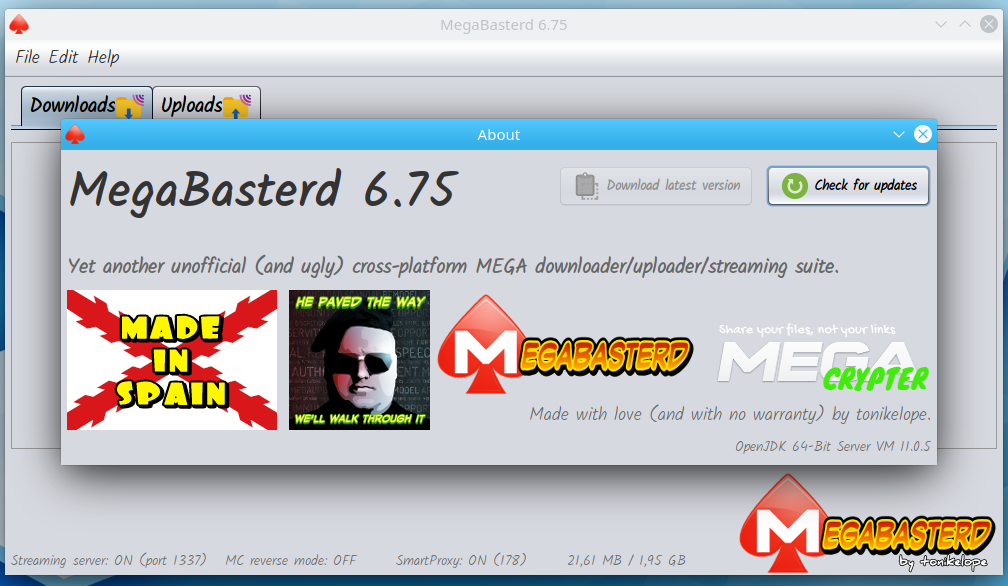
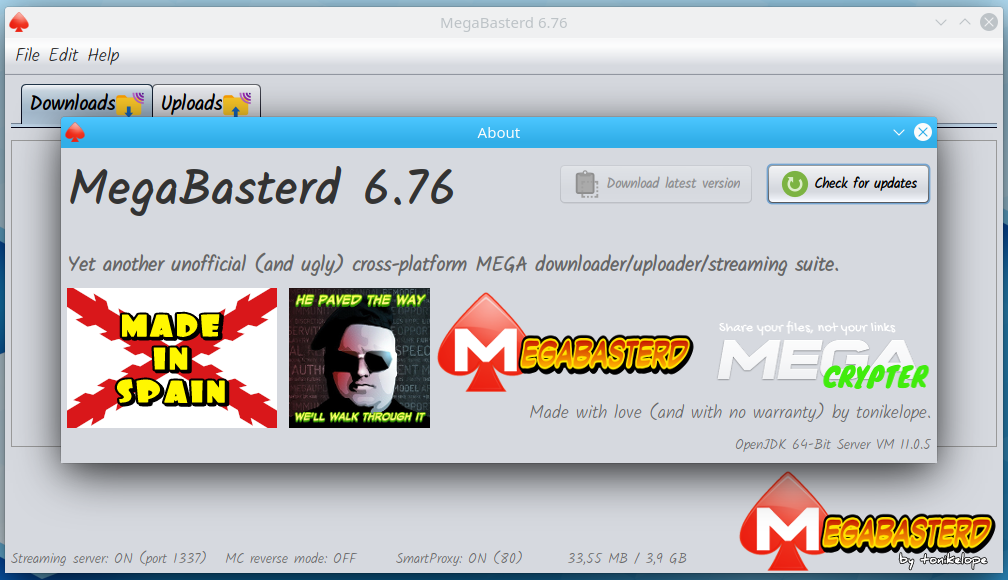
6.76
-Optional CUSTOM SMART PROXY LIST

-Smart Proxy progress watchdog timeout -> 60 secs

diff --git a/src/main/java/com/tonikelope/megabasterd/SettingsDialog.java b/src/main/java/com/tonikelope/megabasterd/SettingsDialog.java
@@ -578,6 +578,10 @@ public class SettingsDialog extends javax.swing.JDialog {
             this.language_combo.setSelectedItem(LabelTranslatorSingleton.getInstance().translate("Spanish"));
         }
 
+        String custom_proxy_list = DBTools.selectSettingValue("custom_proxy_list");
+
+        custom_proxy_textarea.setText(custom_proxy_list);
+
         _remember_master_pass = true;
 
         _deleted_mega_accounts = new HashSet();
@@ -634,6 +638,9 @@ public class SettingsDialog extends javax.swing.JDialog {
         jSeparator9 = new javax.swing.JSeparator();
         jSeparator10 = new javax.swing.JSeparator();
         jSeparator11 = new javax.swing.JSeparator();
+        jScrollPane1 = new javax.swing.JScrollPane();
+        custom_proxy_textarea = new javax.swing.JTextArea();
+        custom_proxy_list_label = new javax.swing.JLabel();
         uploads_scrollpane = new javax.swing.JScrollPane();
         uploads_panel = new javax.swing.JPanel();
         default_slots_up_label = new javax.swing.JLabel();
@@ -825,6 +832,16 @@ public class SettingsDialog extends javax.swing.JDialog {
         rec_smart_proxy_label.setFont(new java.awt.Font("Dialog", 2, 14)); // NOI18N
         rec_smart_proxy_label.setText("Note: enable it in order to mitigate bandwidth limit. (Multi slot required).");
 
+        custom_proxy_textarea.setColumns(20);
+        custom_proxy_textarea.setFont(new java.awt.Font("Dialog", 0, 18)); // NOI18N
+        custom_proxy_textarea.setRows(5);
+        custom_proxy_textarea.setDoubleBuffered(true);
+        jScrollPane1.setViewportView(custom_proxy_textarea);
+        custom_proxy_textarea.addMouseListener(new ContextMenuMouseListener());
+
+        custom_proxy_list_label.setFont(new java.awt.Font("Dialog", 0, 12)); // NOI18N
+        custom_proxy_list_label.setText("Use this proxy list (instead of the one included in MegaBasterd) Format is PROXY:PORT");
+
         javax.swing.GroupLayout downloads_panelLayout = new javax.swing.GroupLayout(downloads_panel);
         downloads_panel.setLayout(downloads_panelLayout);
         downloads_panelLayout.setHorizontalGroup(
@@ -846,30 +863,38 @@ public class SettingsDialog extends javax.swing.JDialog {
                     .addGroup(javax.swing.GroupLayout.Alignment.TRAILING, downloads_panelLayout.createSequentialGroup()
                         .addGroup(downloads_panelLayout.createParallelGroup(javax.swing.GroupLayout.Alignment.TRAILING)
                             .addComponent(jSeparator10, javax.swing.GroupLayout.Alignment.LEADING, javax.swing.GroupLayout.DEFAULT_SIZE, 1683, Short.MAX_VALUE)
-                            .addComponent(smart_proxy_checkbox, javax.swing.GroupLayout.Alignment.LEADING)
                             .addGroup(javax.swing.GroupLayout.Alignment.LEADING, downloads_panelLayout.createSequentialGroup()
-                                .addComponent(max_downloads_label)
-                                .addPreferredGap(javax.swing.LayoutStyle.ComponentPlacement.RELATED)
-                                .addComponent(max_downloads_spinner, javax.swing.GroupLayout.PREFERRED_SIZE, javax.swing.GroupLayout.DEFAULT_SIZE, javax.swing.GroupLayout.PREFERRED_SIZE))
-                            .addComponent(multi_slot_down_checkbox, javax.swing.GroupLayout.Alignment.LEADING)
-                            .addComponent(limit_download_speed_checkbox, javax.swing.GroupLayout.Alignment.LEADING)
-                            .addComponent(rec_smart_proxy_label, javax.swing.GroupLayout.Alignment.LEADING)
-                            .addGroup(javax.swing.GroupLayout.Alignment.LEADING, downloads_panelLayout.createSequentialGroup()
-                                .addGap(21, 21, 21)
-                                .addGroup(downloads_panelLayout.createParallelGroup(javax.swing.GroupLayout.Alignment.LEADING)
-                                    .addComponent(rec_download_slots_label)
-                                    .addGroup(downloads_panelLayout.createSequentialGroup()
-                                        .addComponent(default_slots_down_label)
+                                .addGroup(downloads_panelLayout.createParallelGroup(javax.swing.GroupLayout.Alignment.TRAILING)
+                                    .addComponent(smart_proxy_checkbox, javax.swing.GroupLayout.Alignment.LEADING)
+                                    .addGroup(javax.swing.GroupLayout.Alignment.LEADING, downloads_panelLayout.createSequentialGroup()
+                                        .addComponent(max_downloads_label)
                                         .addPreferredGap(javax.swing.LayoutStyle.ComponentPlacement.RELATED)
-                                        .addComponent(default_slots_down_spinner, javax.swing.GroupLayout.PREFERRED_SIZE, javax.swing.GroupLayout.DEFAULT_SIZE, javax.swing.GroupLayout.PREFERRED_SIZE))
-                                    .addGroup(downloads_panelLayout.createSequentialGroup()
-                                        .addComponent(max_down_speed_label)
-                                        .addPreferredGap(javax.swing.LayoutStyle.ComponentPlacement.RELATED)
-                                        .addComponent(max_down_speed_spinner, javax.swing.GroupLayout.PREFERRED_SIZE, javax.swing.GroupLayout.DEFAULT_SIZE, javax.swing.GroupLayout.PREFERRED_SIZE))
-                                    .addGroup(downloads_panelLayout.createSequentialGroup()
-                                        .addComponent(use_mega_label)
-                                        .addPreferredGap(javax.swing.LayoutStyle.ComponentPlacement.RELATED)
-                                        .addComponent(use_mega_account_down_combobox, javax.swing.GroupLayout.PREFERRED_SIZE, 700, javax.swing.GroupLayout.PREFERRED_SIZE)))))
+                                        .addComponent(max_downloads_spinner, javax.swing.GroupLayout.PREFERRED_SIZE, javax.swing.GroupLayout.DEFAULT_SIZE, javax.swing.GroupLayout.PREFERRED_SIZE))
+                                    .addComponent(multi_slot_down_checkbox, javax.swing.GroupLayout.Alignment.LEADING)
+                                    .addComponent(limit_download_speed_checkbox, javax.swing.GroupLayout.Alignment.LEADING)
+                                    .addGroup(javax.swing.GroupLayout.Alignment.LEADING, downloads_panelLayout.createSequentialGroup()
+                                        .addGap(21, 21, 21)
+                                        .addGroup(downloads_panelLayout.createParallelGroup(javax.swing.GroupLayout.Alignment.LEADING)
+                                            .addComponent(rec_download_slots_label)
+                                            .addGroup(downloads_panelLayout.createSequentialGroup()
+                                                .addComponent(default_slots_down_label)
+                                                .addPreferredGap(javax.swing.LayoutStyle.ComponentPlacement.RELATED)
+                                                .addComponent(default_slots_down_spinner, javax.swing.GroupLayout.PREFERRED_SIZE, javax.swing.GroupLayout.DEFAULT_SIZE, javax.swing.GroupLayout.PREFERRED_SIZE))
+                                            .addGroup(downloads_panelLayout.createSequentialGroup()
+                                                .addComponent(max_down_speed_label)
+                                                .addPreferredGap(javax.swing.LayoutStyle.ComponentPlacement.RELATED)
+                                                .addComponent(max_down_speed_spinner, javax.swing.GroupLayout.PREFERRED_SIZE, javax.swing.GroupLayout.DEFAULT_SIZE, javax.swing.GroupLayout.PREFERRED_SIZE))
+                                            .addGroup(downloads_panelLayout.createSequentialGroup()
+                                                .addComponent(use_mega_label)
+                                                .addPreferredGap(javax.swing.LayoutStyle.ComponentPlacement.RELATED)
+                                                .addComponent(use_mega_account_down_combobox, javax.swing.GroupLayout.PREFERRED_SIZE, 700, javax.swing.GroupLayout.PREFERRED_SIZE))))
+                                    .addGroup(javax.swing.GroupLayout.Alignment.LEADING, downloads_panelLayout.createSequentialGroup()
+                                        .addGap(26, 26, 26)
+                                        .addGroup(downloads_panelLayout.createParallelGroup(javax.swing.GroupLayout.Alignment.LEADING, false)
+                                            .addComponent(rec_smart_proxy_label, javax.swing.GroupLayout.DEFAULT_SIZE, javax.swing.GroupLayout.DEFAULT_SIZE, Short.MAX_VALUE)
+                                            .addComponent(custom_proxy_list_label, javax.swing.GroupLayout.DEFAULT_SIZE, javax.swing.GroupLayout.DEFAULT_SIZE, Short.MAX_VALUE)
+                                            .addComponent(jScrollPane1))))
+                                .addGap(0, 0, Short.MAX_VALUE)))
                         .addGap(12, 12, 12))
                     .addGroup(downloads_panelLayout.createSequentialGroup()
                         .addGroup(downloads_panelLayout.createParallelGroup(javax.swing.GroupLayout.Alignment.LEADING)
@@ -952,6 +977,10 @@ public class SettingsDialog extends javax.swing.JDialog {
                 .addComponent(smart_proxy_checkbox)
                 .addPreferredGap(javax.swing.LayoutStyle.ComponentPlacement.RELATED)
                 .addComponent(rec_smart_proxy_label)
+                .addPreferredGap(javax.swing.LayoutStyle.ComponentPlacement.UNRELATED)
+                .addComponent(custom_proxy_list_label)
+                .addPreferredGap(javax.swing.LayoutStyle.ComponentPlacement.RELATED)
+                .addComponent(jScrollPane1, javax.swing.GroupLayout.PREFERRED_SIZE, 186, javax.swing.GroupLayout.PREFERRED_SIZE)
                 .addContainerGap())
         );
 
@@ -1440,11 +1469,6 @@ public class SettingsDialog extends javax.swing.JDialog {
 
         start_frozen_checkbox.setFont(new java.awt.Font("Dialog", 1, 18)); // NOI18N
         start_frozen_checkbox.setText("Freeze transferences before start");
-        start_frozen_checkbox.addChangeListener(new javax.swing.event.ChangeListener() {
-            public void stateChanged(javax.swing.event.ChangeEvent evt) {
-                start_frozen_checkboxStateChanged(evt);
-            }
-        });
 
         javax.swing.GroupLayout advanced_panelLayout = new javax.swing.GroupLayout(advanced_panel);
         advanced_panel.setLayout(advanced_panelLayout);
@@ -1607,6 +1631,7 @@ public class SettingsDialog extends javax.swing.JDialog {
             settings.put("start_frozen", start_frozen_checkbox.isSelected() ? "yes" : "no");
             settings.put("use_custom_chunks_dir", custom_chunks_dir_checkbox.isSelected() ? "yes" : "no");
             settings.put("custom_chunks_dir", _custom_chunks_dir);
+            settings.put("custom_proxy_list", custom_proxy_textarea.getText());
 
             String old_font = DBTools.selectSettingValue("font");
 
@@ -2659,10 +2684,14 @@ public class SettingsDialog extends javax.swing.JDialog {
             rec_smart_proxy_label.setEnabled(true);
             multi_slot_down_checkbox.setSelected(true);
             use_proxy_checkbox.setSelected(false);
+            custom_proxy_list_label.setEnabled(true);
+            custom_proxy_textarea.setEnabled(true);
 
         } else {
 
             rec_smart_proxy_label.setEnabled(false);
+            custom_proxy_list_label.setEnabled(false);
+            custom_proxy_textarea.setEnabled(false);
         }
     }//GEN-LAST:event_smart_proxy_checkboxStateChanged
 
@@ -2746,10 +2775,6 @@ public class SettingsDialog extends javax.swing.JDialog {
         }
     }//GEN-LAST:event_custom_chunks_dir_buttonActionPerformed
 
-    private void start_frozen_checkboxStateChanged(javax.swing.event.ChangeEvent evt) {//GEN-FIRST:event_start_frozen_checkboxStateChanged
-        // TODO add your handling code here:
-    }//GEN-LAST:event_start_frozen_checkboxStateChanged
-
     // Variables declaration - do not modify//GEN-BEGIN:variables
     private javax.swing.JPanel accounts_panel;
     private javax.swing.JButton add_elc_account_button;
@@ -2761,6 +2786,8 @@ public class SettingsDialog extends javax.swing.JDialog {
     private javax.swing.JButton custom_chunks_dir_button;
     private javax.swing.JCheckBox custom_chunks_dir_checkbox;
     private javax.swing.JLabel custom_chunks_dir_current_label;
+    private javax.swing.JLabel custom_proxy_list_label;
+    private javax.swing.JTextArea custom_proxy_textarea;
     private javax.swing.JLabel default_dir_label;
     private javax.swing.JLabel default_slots_down_label;
     private javax.swing.JSpinner default_slots_down_spinner;
@@ -2782,6 +2809,7 @@ public class SettingsDialog extends javax.swing.JDialog {
     private javax.swing.JLabel jLabel1;
     private javax.swing.JLabel jLabel2;
     private javax.swing.JProgressBar jProgressBar1;
+    private javax.swing.JScrollPane jScrollPane1;
     private javax.swing.JSeparator jSeparator1;
     private javax.swing.JSeparator jSeparator10;
     private javax.swing.JSeparator jSeparator11;

diff --git a/src/main/java/com/tonikelope/megabasterd/SmartMegaProxyManager.java b/src/main/java/com/tonikelope/megabasterd/SmartMegaProxyManager.java
@@ -7,6 +7,8 @@ import java.io.InputStream;
 import java.net.HttpURLConnection;
 import java.net.MalformedURLException;
 import java.net.URL;
+import java.util.ArrayList;
+import java.util.Arrays;
 import java.util.LinkedHashMap;
 import java.util.Set;
 import java.util.logging.Level;
@@ -77,7 +79,32 @@ public final class SmartMegaProxyManager {
 
         try {
 
-            if (this._proxy_list_url != null && this._proxy_list_url.length() > 0) {
+            String custom_proxy_list = DBTools.selectSettingValue("custom_proxy_list");
+
+            ArrayList<String> custom_list = new ArrayList<>(Arrays.asList(custom_proxy_list.split("\\r?\\n")));
+
+            LinkedHashMap<String, Long> custom_clean_list = new LinkedHashMap<>();
+
+            if (!custom_list.isEmpty()) {
+
+                Long current_time = System.currentTimeMillis();
+
+                for (String proxy : custom_list) {
+
+                    if (proxy.trim().matches(".+?:[0-9]{1,5}")) {
+                        custom_clean_list.put(proxy, current_time);
+                    }
+                }
+            }
+
+            if (!custom_clean_list.isEmpty()) {
+
+                _proxy_list.clear();
+
+                _proxy_list.putAll(custom_clean_list);
+            }
+
+            if (custom_clean_list.isEmpty() && _proxy_list_url != null && _proxy_list_url.length() > 0) {
 
                 URL url = new URL(this._proxy_list_url);
 
@@ -117,6 +144,13 @@ public final class SmartMegaProxyManager {
                     }
                 }
 
+                swingInvoke(() -> {
+                    _main_panel.getView().updateSmartProxyStatus("SmartProxy: ON (" + String.valueOf(getProxyCount()) + ")");
+                });
+
+                LOG.log(Level.INFO, "{0} Smart Proxy Manager: proxy list refreshed ({1})", new Object[]{Thread.currentThread().getName(), _proxy_list.size()});
+
+            } else if (!custom_clean_list.isEmpty()) {
                 swingInvoke(() -> {
                     _main_panel.getView().updateSmartProxyStatus("SmartProxy: ON (" + String.valueOf(getProxyCount()) + ")");
                 });

diff --git a/src/main/java/com/tonikelope/megabasterd/Download.java b/src/main/java/com/tonikelope/megabasterd/Download.java
@@ -46,7 +46,7 @@ import javax.swing.JComponent;
 public class Download implements Transference, Runnable, SecureSingleThreadNotifiable {
 
     public static final boolean VERIFY_CBC_MAC_DEFAULT = false;
-    public static final int PROGRESS_WATCHDOG_TIMEOUT = 120;
+    public static final int PROGRESS_WATCHDOG_TIMEOUT = 60;
     public static final boolean USE_SLOTS_DEFAULT = true;
     public static final int WORKERS_DEFAULT = 6;
     public static final boolean USE_MEGA_ACCOUNT_DOWN = false;
@@ -637,7 +637,7 @@ public class Download implements Transference, Runnable, SecureSingleThreadNotif
 
                         THREAD_POOL.execute(() -> {
 
-                            //PROGRESS WATCHDOG If a download (using SmartProxy) remains more than two minutes without advancing 1 byte, we restart it.
+                            //PROGRESS WATCHDOG If a download using SmartProxy remains more than 60 seconds without receiving data, we force fatal error in order to restart it.
                             LOG.log(Level.INFO, "{0} PROGRESS WATCHDOG HELLO!", Thread.currentThread().getName());
 
                             long last_progress, progress = getProgress();
@@ -659,6 +659,7 @@ public class Download implements Transference, Runnable, SecureSingleThreadNotif
 
                             if (!isExit() && progress <= last_progress) {
                                 stopDownloader("PROGRESS WATCHDOG TIMEOUT!");
+                                MainPanel.getProxy_manager().refreshProxyList(); //Force SmartProxy proxy list refresh
                             }
 
                             LOG.log(Level.INFO, "{0} PROGRESS WATCHDOG BYE BYE!", Thread.currentThread().getName());

diff --git a/src/main/java/com/tonikelope/megabasterd/LabelTranslatorSingleton.java b/src/main/java/com/tonikelope/megabasterd/LabelTranslatorSingleton.java
@@ -38,6 +38,7 @@ public class LabelTranslatorSingleton {
 
     private void Spanish() {
 
+        _addTranslation("Use this proxy list (instead of the one included in MegaBasterd) Format is PROXY:PORT", "Usar esta lista de proxys (en vez de la incluida en MegaBasterd) El formato es PROXY:PUERTO");
         _addTranslation("Waiting for completion handler ... ***DO NOT EXIT MEGABASTERD NOW***", "Esperando manejador de finalización ... ***NO CIERRES MEGABASTERD EN ESTE MOMENTO***");
         _addTranslation("Finishing calculating CBC-MAC code (this could take a while) ... ***DO NOT EXIT MEGABASTERD NOW***", "Terminando de calcular código CBC-MAC (esto podría llevar tiempo) ... ***NO CIERRES MEGABASTERD EN ESTE MOMENTO***");
         _addTranslation("Split content in different uploads", "Separar contenido en diferentes subidas");

diff --git a/src/main/java/com/tonikelope/megabasterd/MainPanel.java b/src/main/java/com/tonikelope/megabasterd/MainPanel.java
@@ -53,7 +53,7 @@ import javax.swing.UIManager;
  */
 public final class MainPanel {
 
-    public static final String VERSION = "6.75";
+    public static final String VERSION = "6.76";
     public static final int THROTTLE_SLICE_SIZE = 16 * 1024;
     public static final int DEFAULT_BYTE_BUFFER_SIZE = 16 * 1024;
     public static final int STREAMER_PORT = 1337;
